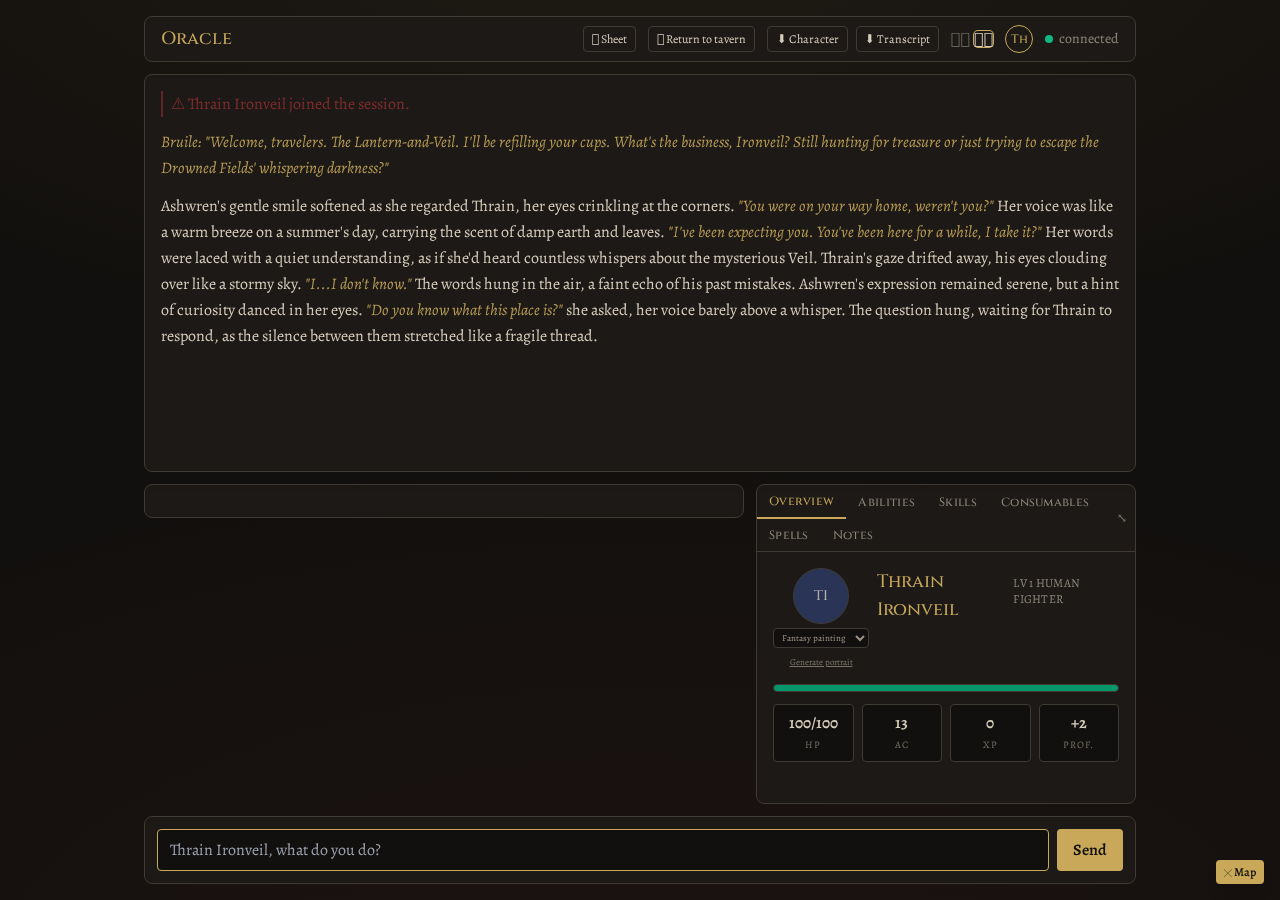
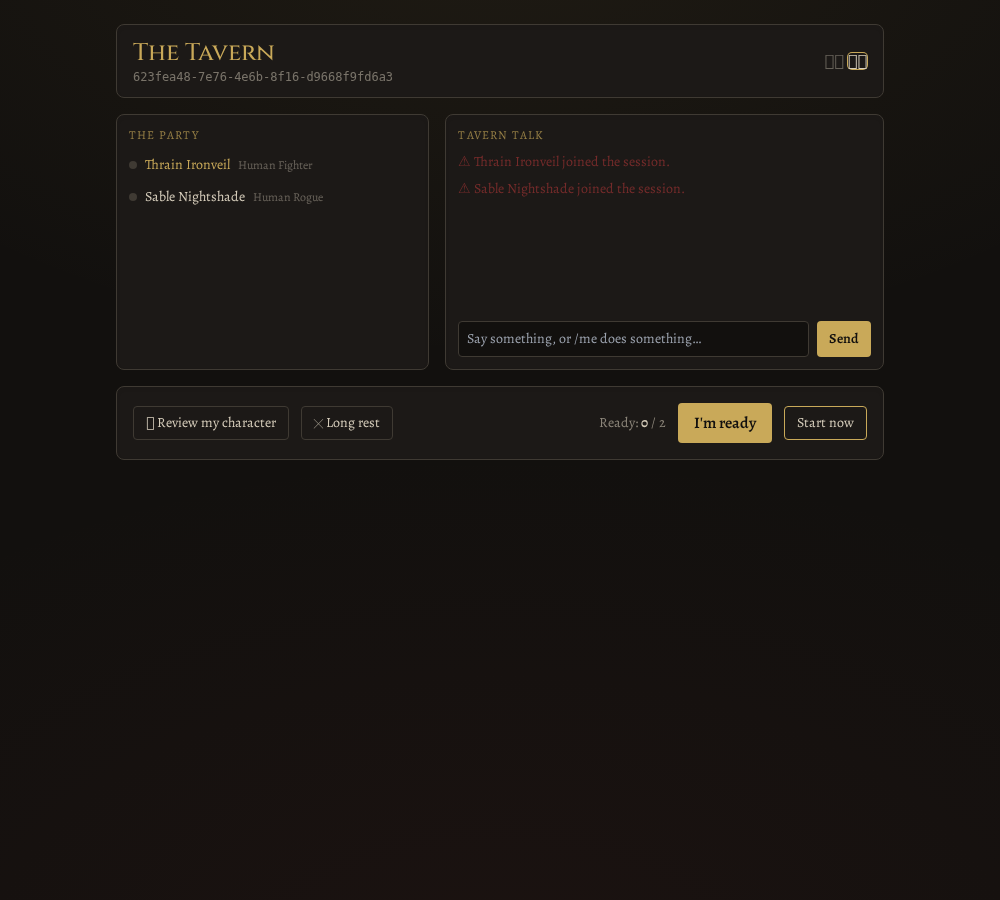
Add Start/End combat button; refresh README with real multiplayer shots
The React client had no way to trigger start_combat/end_combat at all -
action economy and range bands were server-complete but unreachable by
a real player. Small header toggle fixes that.

README screenshots refreshed with two real players sharing a session
and a real Ollama-narrated fight showing action economy, the
Combatants roster/range band, and the scene-banner control together.

Claude-Session: https://claude.ai/code/session_01TXU75FRn8K9cXtQrwbm7wY

diff --git a/web/src/components/GameScreen.jsx b/web/src/components/GameScreen.jsx
@@ -95,6 +95,14 @@ export default function GameScreen() {
           >
             📜 {t("Sheet")}
           </button>
+          <button
+            className={`px-2 py-1 rounded border transition text-xs ${
+              state.inCombat ? "border-dungeon-blood text-dungeon-blood" : "border-dungeon-edge hover:border-dungeon-gold"
+            }`}
+            onClick={() => (state.inCombat ? actions.endCombat() : actions.startCombat())}
+          >
+            ⚔ {state.inCombat ? t("End combat") : t("Start combat")}
+          </button>
           <EndAdventureButton onEnd={actions.endAdventure} t={t} />
           <ExportButtons />
           <LangFlags />

diff --git a/web/src/state/store.jsx b/web/src/state/store.jsx
@@ -311,6 +311,12 @@ export function StoreProvider({ children }) {
       tavernRest() {
         connRef.current?.sendEvent(ET.TAVERN_REST, {});
       },
+      startCombat() {
+        connRef.current?.sendEvent(ET.START_COMBAT, {});
+      },
+      endCombat() {
+        connRef.current?.sendEvent(ET.END_COMBAT, {});
+      },
       endAdventure() {
         connRef.current?.sendEvent(ET.END_ADVENTURE, {});
       },

diff --git a/CHANGELOG.md b/CHANGELOG.md
@@ -7,6 +7,7 @@ only open work.
 
 ## v2 rebuild and after (2026-08)
 
+- **A real client gap found and fixed while preparing screenshots: the v2 React client had no way to trigger `start_combat`/`end_combat` at all.** Both events, and everything built on `Session.in_combat` (action economy pips, the Combatants roster/range band), were server-complete and fully tested but practically unreachable by a real player — the old Python client's `/combat start`/`/combat end` commands never carried over to the rewrite. Fixed with a small ⚔ "Start combat"/"End combat" header toggle (`GameScreen.jsx`) and a `startCombat()`/`endCombat()` pair in `store.jsx` sending the existing events - no new protocol surface. README screenshots refreshed with two real players sharing a session and a real Ollama-narrated fight showing all three recent BG3-backlog features live together. (2026-09-13)
 - **Scene banner generation: a static, manually-triggered establishing-shot image for the party's current location — closes the "scene generation" gap ROADMAP had named as still open since portrait generation shipped.** Reuses `ImageBackend`/`generate_portrait` directly with a new `build_scene_prompt(world, style)` (`server/portrait.py`) instead of building a second image pipeline — the method name stayed `generate_portrait` since the signature was already generic (`description: str -> bytes`); renaming would have touched both backends and every existing portrait test for a cosmetic gain. New `generate_scene` client→server event (`{style?}`, any joined player, not gated to owning a character — world-level art) and `scene_progress` server→client event (private to the requester, mirrors `portrait_progress`). `WorldState.scene_image` rides the existing `world_update` broadcast, no new event needed for the image itself. Same manual-only, "always asks first" stance portraits established — considered auto-regenerating on location/mood change and rejected it (real cost with no per-call confirmation, no GPU here to see how often mood actually churns). The one automatic behavior: `scene_image` clears itself when `location` changes, so a stale mismatched banner never lingers — regenerating for the new location is still a fresh manual click. Client: new `SceneBanner.jsx` at the top of the narration log; `Avatar.jsx`'s `STYLE_OPTIONS` is now exported and reused rather than duplicated. See `docs/protocol.md`'s "Scene banner generation" section. (2026-09-13)
 - **NPC range band: abstract combat positioning, piece 3 of the BG3-direction backlog (piece 1: suggested-actions badges; piece 2: action economy) — deliberately scoped down from a real grid.** `CharacterSheet.range_band: Literal["melee", "near", "far"] = "melee"`, one per NPC (not per player-NPC pair), DM-authored only via a new `update_character` field (both backends, sibling to `disposition`, same validation boundary and same "silently ignore an unrecognized string" handling). A real x/y grid was considered and rejected in the same conversation that scoped this piece: `WorldState.location_map`'s own design already rejected DM-authored coordinates for the world map (this project's tool-call reliability investigation says the DM model can't be trusted to keep them consistent), and combat positioning has higher stakes for a bad one than a map pin does. Deliberately informational, same as pieces 1-2 — nothing gates narration, no real opportunity-attack trigger. Client: a new "Combatants" section in `ScenePanel.jsx` (name, HP bar, disposition, range badge) — also the first place `state.npcs` renders anywhere in the v2 client, closing a real, separate gap (the data and its reducer case already existed, nothing consumed them). Found and fixed a real bug in the process: `store.jsx`'s `NPC_UPDATE` reducer was merging the envelope wrapper instead of `sheet_delta`, so a live NPC update never actually reached `state.npcs` - the same class of staleness bug the old Python client's own NPC-panel changelog entry names almost verbatim. See `docs/protocol.md`'s "NPC range band" section. (2026-09-13)
 - **Real action economy: action/bonus action/reaction/movement, tracked per player-turn — piece 2 of the BG3-direction backlog (piece 1 was the suggested-actions skill/DC badges).** `CharacterSheet` gains `action_available`/`bonus_action_available`/`reaction_available` (bool) and `movement_remaining` (int, defaults to `speed`), refilled every time a player becomes `current_turn` (`Session.advance_turn`, plus the two direct turn-index resets in `_on_start_combat`/`_on_end_combat`) — per-player, not per-round, matching real 5e's own reaction timing without needing a round counter Oracle doesn't otherwise track. Spent via four new `character_edit` fields (`spend_action`, `spend_bonus_action`, `spend_reaction`, `spend_movement`), the same player-initiated bookkeeping pattern `use_item`/`cast_spell` already use — an already-spent resource or an over-budget movement spend gets a warning, not a silent no-op. Deliberately informational like piece 1's DC badges: nothing here gates what a player types in the action box, since Oracle has no positioning model precise enough to actually enforce it against free-text narration. Owner-only (like inspiration) — never in `_public_character_view`. Client: a new resource row in `CharacterSheet.jsx`'s Overview tab (Action/Bonus action/Reaction pips + a movement counter with a -5ft button), shown only while `in_combat`. See `docs/protocol.md`'s "Action economy" section. (2026-09-13)

diff --git a/README.md b/README.md
@@ -144,7 +144,7 @@ Container Toolkit on the host — without it Ollama silently runs on CPU).
 
 ## Screenshots
 
-Real captures of the live app — join screen, a live character sheet with real computed stats (starting HP is a flat 100 for every character, a deliberate house rule), and an actual played turn with real DM dialogue (local Ollama backend).
+Real captures of the live app with two real players sharing a session — join screen, a live character sheet with real computed stats (starting HP is a flat 100 for every character, a deliberate house rule), the tavern lobby with both party members, and a real fight with real DM dialogue (local Ollama backend).
 
 <p align="center">
   <img src="docs/images/screenshots/join.png" alt="Oracle join screen: character name, session id, class/race pickers" style="max-width: 100%; width: 900px;"><br>
@@ -155,8 +155,12 @@ Real captures of the live app — join screen, a live character sheet with real 
   <sub>Every number on the sheet is computed by the server, not the model — the avatar, style picker, and Equipped/Inventory split are all live</sub>
 </p>
 <p align="center">
-  <img src="docs/images/screenshots/session.png" alt="Oracle live session with the in-session character panel: Overview, Abilities, Skills, Consumables, Spells, and Notes tabs" style="max-width: 100%; width: 900px;"><br>
-  <sub>The in-session panel — Skills, Consumables (use-only), and Spells (with a Cast button) alongside the usual Overview, plus a collapse toggle for multiplayer</sub>
+  <img src="docs/images/screenshots/session.png" alt="Oracle tavern lobby with two real players in the same party, ready to start the adventure together" style="max-width: 100%; width: 900px;"><br>
+  <sub>Two players, one party — same session id, one browser tab each</sub>
+</p>
+<p align="center">
+  <img src="docs/images/screenshots/combat.png" alt="Oracle live combat with real DM narration, a tracked NPC in the Combatants roster with an HP bar and range badge, and the action-economy pips (Action, Bonus action, Reaction) alongside a scene-banner control" style="max-width: 100%; width: 900px;"><br>
+  <sub>Formal initiative in progress — the Combatants roster (NPC HP + abstract melee/near/far range band), per-turn action economy pips, and the scene-banner generator, all driven by a real Ollama turn</sub>
 </p>
 
 ## The tool-call reliability investigation

diff --git a/docs/protocol.md b/docs/protocol.md
@@ -450,6 +450,7 @@ Closes the gap the "Formal initiative" section above named as deliberately not b
 
 - **`in_combat` (bool) added to `state_sync` and `turn_prompt`** — `state_sync` for a (re)joining client, `turn_prompt` for an already-connected one, since that's what broadcasts on every `start_combat`/`end_combat` (and every ordinary turn advance). No new event type — both envelopes already existed and already carried `turn_order`/`current_turn` for the mechanical side of this.
 - **Client**: `CharacterSheetPanel.render_combat(in_combat, turn_order, current_turn)` drives a new "Combat" section in the Overview tab, shown only while `in_combat` is true — each `turn_order` entry resolved to a display name via the same `self._character`/`self._others` data the sheet already tracks, with the current turn marked. No roll numbers or NPCs in this persistent view (neither is retained anywhere structured — NPCs never enter `turn_order` at all, and rolls are one-time flavor already fully shown in the original `system_message` announcement); this section answers "are we in combat, and what's the order" for someone who joined after combat started or scrolled past the announcement, not a replay of the roll itself.
+- **The v2 React client (`GameScreen.jsx`) had no way to trigger `start_combat`/`end_combat` at all until the action-economy/range-band pieces below shipped** — the old Python client's `/combat start`/`/combat end` commands never carried over to the rewrite, so those two features were server-complete but practically unreachable by a real player. Fixed with a small header toggle button (⚔ "Start combat" / "End combat", styled red while active), a thin `startCombat()`/`endCombat()` pair in `store.jsx` sending the existing events — no new protocol surface, just closing a real client gap found while preparing screenshots of the newer features.
 
 ## Action economy
 
